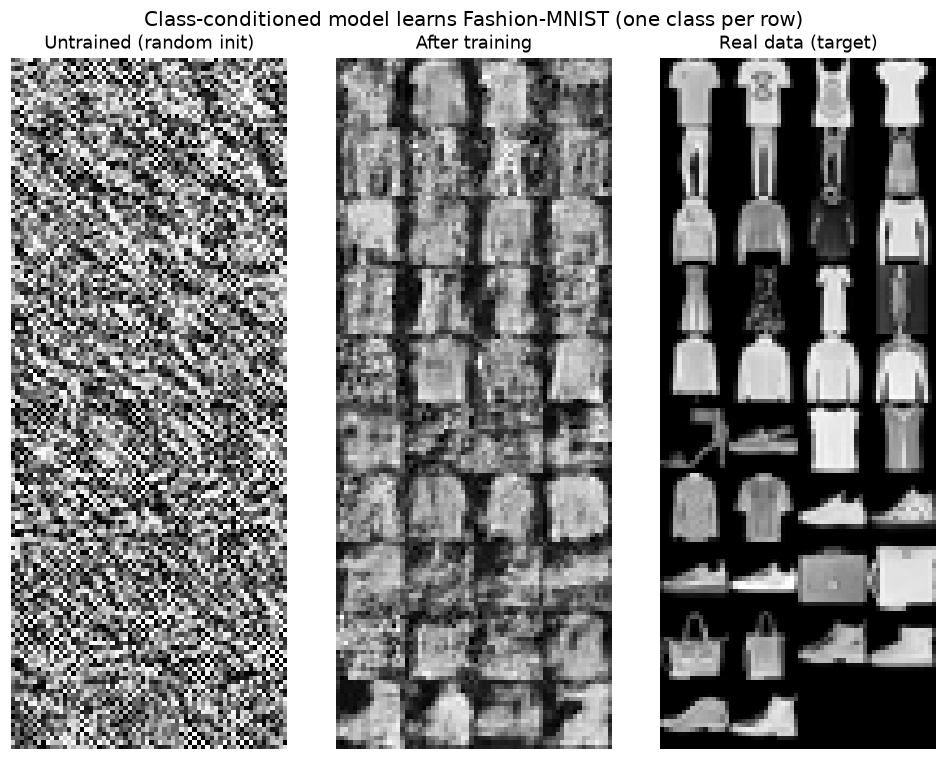
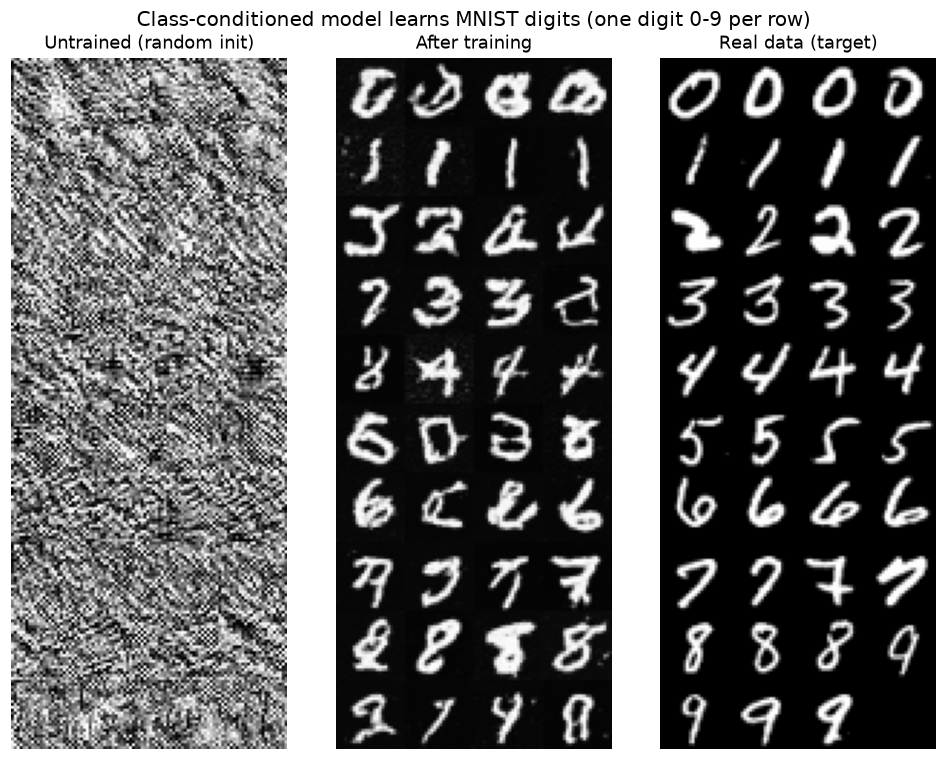
Sharpen learning-evidence figures: clear MNIST digit samples
Retrain the class-conditioned demo on MNIST at 24x24 for ~3700 steps so the
generated samples are clearly legible digits (one per row, 0-9) instead of the
earlier low-step blur. Loss 1.29 -> 0.027. Updates learning_compare.png,
loss_curve.png, and the README wording.

diff --git a/scripts/verify_learning.py b/scripts/verify_learning.py
@@ -36,10 +36,7 @@ from difflab.sampling import ddim_sample  # noqa: E402
 from difflab.training.trainer import Trainer  # noqa: E402
 from difflab.utils import make_image_grid, set_seed, tensor_to_pil  # noqa: E402
 
-CLASSES = [
-    "T-shirt", "Trouser", "Pullover", "Dress", "Coat",
-    "Sandal", "Shirt", "Sneaker", "Bag", "Ankle boot",
-]
+CLASSES = [str(d) for d in range(10)]  # MNIST digits 0-9, one per row
 
 
 def sample_grid(model, scheduler, n_per_class, device):
@@ -68,9 +65,10 @@ def main():
         task="class_conditioned",
         name="verify_learning",
         model=ModelConfig(
-            # Small 16x16, 2-level, no-attention UNet keeps CPU cost low while
-            # still clearly learning Fashion-MNIST class structure.
-            sample_size=16, in_channels=1, out_channels=1, layers_per_block=1,
+            # Small 24x24, 2-level no-attention UNet. MNIST digits need little
+            # capacity, so a compact model keeps each CPU step fast (~2s) while
+            # still producing clearly legible digits.
+            sample_size=24, in_channels=1, out_channels=1, layers_per_block=1,
             norm_num_groups=8, block_out_channels=(32, 64),
             down_block_types=("DownBlock2D", "DownBlock2D"),
             up_block_types=("UpBlock2D", "UpBlock2D"),
@@ -78,8 +76,8 @@ def main():
         ),
         scheduler=SchedulerConfig(num_train_timesteps=1000, beta_schedule="squaredcos_cap_v2"),
         data=DataConfig(
-            dataset="zalando-datasets/fashion_mnist", split="train",
-            image_column="image", label_column="label", resolution=16,
+            dataset="ylecun/mnist", split="train",
+            image_column="image", label_column="label", resolution=24,
             center_crop=True, random_flip=False, max_samples=args.samples,
         ),
         train=TrainConfig(
@@ -90,7 +88,7 @@ def main():
             # init, so we sample from the actual trained weights instead.
             use_ema=False,
             sample_every_epochs=2,  # progressive sample grids under outputs/.../samples
-            save_every_epochs=args.epochs, num_eval_samples=10, num_inference_steps=50,
+            save_every_epochs=2, num_eval_samples=10, num_inference_steps=50,
         ),
     )
 

diff --git a/scripts/make_assets.py b/scripts/make_assets.py
@@ -118,7 +118,7 @@ def learning_compare():
         ax.imshow(_load(p), cmap="gray")
         ax.set_title(t, fontsize=12)
         ax.axis("off")
-    fig.suptitle("Class-conditioned model learns Fashion-MNIST (one class per row)", fontsize=13)
+    fig.suptitle("Class-conditioned model learns MNIST digits (one digit 0-9 per row)", fontsize=13)
     fig.tight_layout()
     fig.savefig(ASSETS / "learning_compare.png", dpi=110, bbox_inches="tight")
     plt.close(fig)

diff --git a/README.md b/README.md
@@ -45,9 +45,11 @@ are reproducible with `python scripts/verify_learning.py` and
 
 ### The model actually learns
 
-A class-conditioned UNet trained from scratch on Fashion-MNIST (one class per
-row). The randomly-initialised model emits noise; after training it produces
-recognizable garments matching each class — approaching the real distribution.
+A class-conditioned UNet trained from scratch on MNIST (one digit 0–9 per row).
+The randomly-initialised model emits noise; after training it produces
+recognizable digits matching each requested class — approaching the real
+distribution. (Trained on CPU; a GPU run with the full config sharpens this
+further.)
 
 <p align="center">
   <img src="assets/learning_compare.png" width="80%" alt="Untrained vs trained vs real"/>